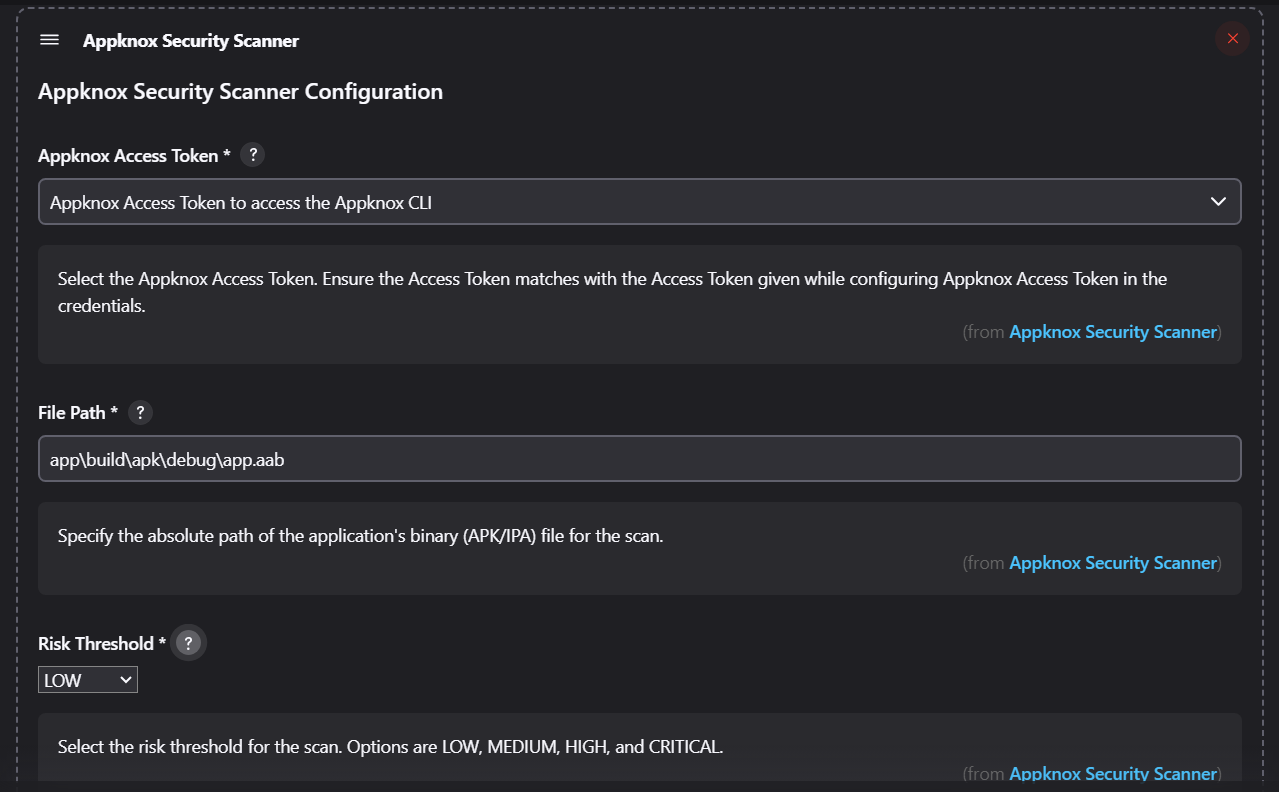
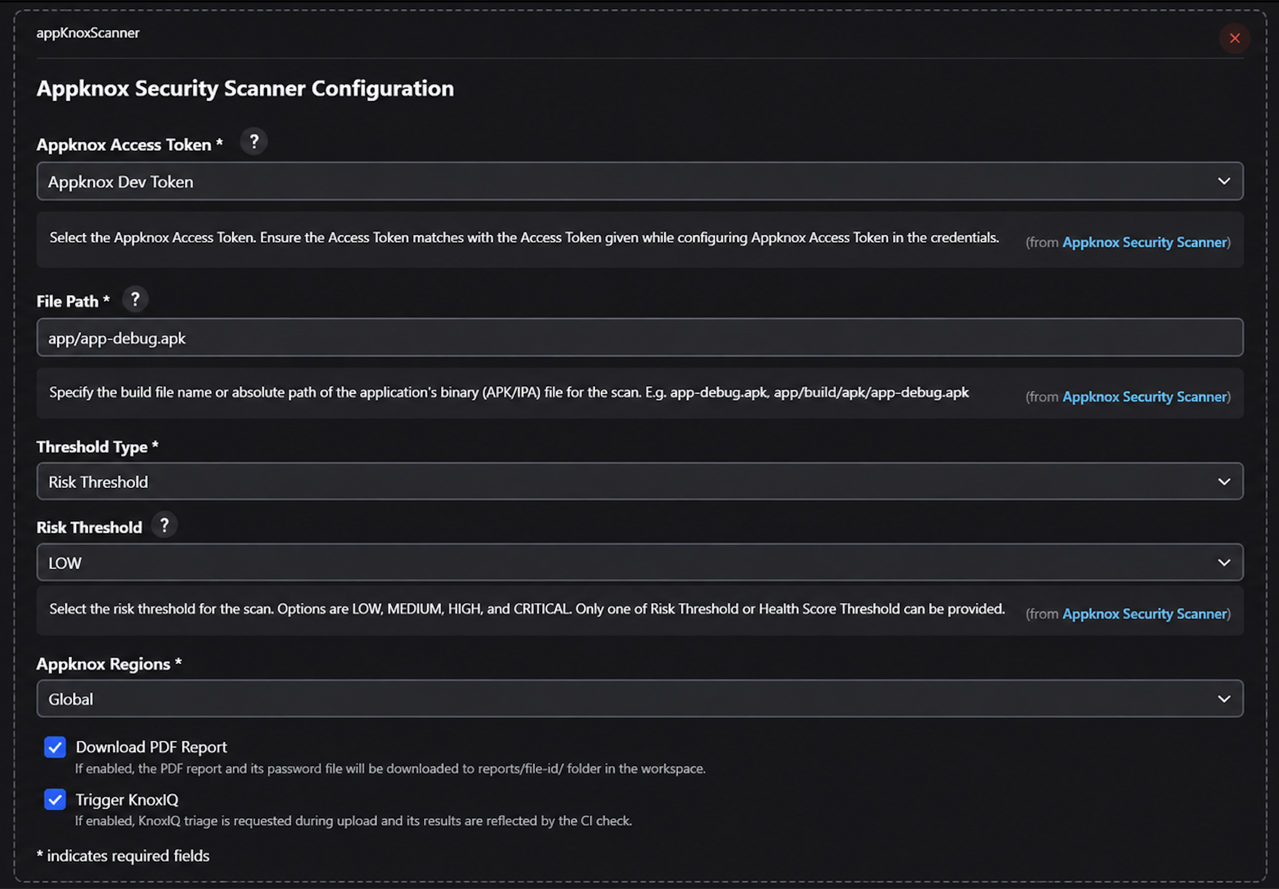
Document Health Score threshold and update plugin config screenshot
README was missing any mention of thresholdType/healthScoreThreshold
(added back in commit 4788e76, "add: threshold type") even though the
plugin has supported it for a while. Adds it to the Inputs table, the
quick pipeline snippet, and a dedicated "Example — Health Score
Threshold" pipeline alongside the existing risk-threshold example.

Also replaces the stale Appknox Plugin Configuration screenshot with a
current one showing Threshold Type, Appknox Regions, Download PDF
Report, and Trigger KnoxIQ.

diff --git a/README.md b/README.md
@@ -1,6 +1,6 @@
 # Appknox Security Scan Plugin
 
-The Appknox Security Scan Plugin allows you to perform Appknox security scan on your mobile application binary. The APK/IPA built from your CI pipeline will be uploaded to Appknox platform which performs static scan and the build will be errored according to the chosen risk threshold.
+The Appknox Security Scan Plugin allows you to perform Appknox security scan on your mobile application binary. The APK/IPA built from your CI pipeline will be uploaded to Appknox platform which performs static scan and the build will be errored according to the chosen risk threshold or minimum health score.
 
 ## How to use it?
 
@@ -81,7 +81,9 @@ stages {
                 appKnoxScanner(
                     credentialsId: 'your-appknox-access-token-ID', // Specify the Appknox Access Token ID that was set when storing the token in Jenkins credentials.
                     filePath: FILE_PATH,
-                    riskThreshold: params.RISK_THRESHOLD,
+                    thresholdType: 'RISK', // 'RISK' or 'HEALTH_SCORE' -- pick exactly one, with the matching threshold field below
+                    riskThreshold: params.RISK_THRESHOLD, // required when thresholdType is 'RISK'
+                    // healthScoreThreshold: params.HEALTH_SCORE_THRESHOLD, // required when thresholdType is 'HEALTH_SCORE' instead
                     region: params.REGION,
                     generatePdfReport: params.GENERATE_PDF, // set to true to download a password-protected PDF report
                     triggerKnoxiq: params.TRIGGER_KNOXIQ // set to true to request KnoxIQ triage during upload
@@ -98,7 +100,9 @@ stages {
 |---------------------|------------------------------|
 | `credentialsId`     | Personal appknox access token ID |
 | `filePath`          | Specify the build file name or path for the mobile application binary to upload, E.g. app-debug.apk, app/build/apk/app-debug.apk |
-| `riskThreshold`     | Risk threshold value for which the CI should fail. <br><br>Accepted values: `CRITICAL, HIGH, MEDIUM & LOW` <br><br>Default: `LOW` |
+| `thresholdType`     | Which threshold to enforce — pick exactly one. <br><br>Accepted values: `RISK`, `HEALTH_SCORE` |
+| `riskThreshold`     | Risk threshold value for which the CI should fail. Required when `thresholdType` is `RISK`. <br><br>Accepted values: `CRITICAL, HIGH, MEDIUM & LOW` <br><br>Default: `LOW` |
+| `healthScoreThreshold` | Minimum health score (0-100) the scanned app must meet for the CI to pass. Required when `thresholdType` is `HEALTH_SCORE`. |
 | `region`            | Specify the Appknox region. <br><br>Accepted values: `global`, `uae`, `saudi` <br><br>Default: `global` |
 | `generatePdfReport` | (Optional) Download a PDF VAPT report after the scan. The report is password-protected. <br><br>Accepted values: `true`, `false` <br><br>Default: `false` |
 | `triggerKnoxiq`     | (Optional) Request KnoxIQ triage for this build during upload; results are reflected by the CI check. <br><br>Accepted values: `true`, `false` <br><br>Default: `false` |
@@ -106,6 +110,8 @@ stages {
 ---
 
 ## Example Script:
+
+### Example — Risk Threshold
 ```groovy
 pipeline {
     agent any
@@ -136,7 +142,52 @@ pipeline {
                     appKnoxScanner(
                         credentialsId: 'your-appknox-access-token-ID', // Specify the Appknox Access Token ID that was set when storing the token in Jenkins credentials.
                         filePath: FILE_PATH,
+                        thresholdType: 'RISK',
                         riskThreshold: params.RISK_THRESHOLD,
+                        region: params.REGION,
+                        generatePdfReport: params.GENERATE_PDF, // set to true to download a password-protected PDF report
+                        triggerKnoxiq: params.TRIGGER_KNOXIQ // set to true to request KnoxIQ triage during upload
+                    )
+                }
+            }
+        }
+    }
+}
+```
+
+### Example — Health Score Threshold
+```groovy
+pipeline {
+    agent any
+    parameters {
+        string(name: 'HEALTH_SCORE_THRESHOLD', defaultValue: '70', description: 'Minimum Health Score (0-100)')
+        choice(name: 'REGION', choices: ['global', 'uae', 'saudi'], description: 'Appknox Region')
+        booleanParam(name: 'GENERATE_PDF', defaultValue: false, description: 'Download PDF report')
+        booleanParam(name: 'TRIGGER_KNOXIQ', defaultValue: false, description: 'Request KnoxIQ triage during upload')
+    }
+    stages {
+        stage('Checkout') {
+            steps {
+                git 'https://github.com/yourgithub/reponame'
+            }
+        }
+        stage('Build App') {
+            steps {
+                // Build the app using your build tool. Example uses Gradle.
+                script {
+                    sh './gradlew build'
+                    FILE_PATH = "app/build/outputs/apk/debug/app-debug.apk"
+                }
+            }
+        }
+        stage('Appknox Scan') {
+            steps {
+                script {
+                    appKnoxScanner(
+                        credentialsId: 'your-appknox-access-token-ID', // Specify the Appknox Access Token ID that was set when storing the token in Jenkins credentials.
+                        filePath: FILE_PATH,
+                        thresholdType: 'HEALTH_SCORE',
+                        healthScoreThreshold: params.HEALTH_SCORE_THRESHOLD,
                         region: params.REGION,
                         generatePdfReport: params.GENERATE_PDF, // set to true to download a password-protected PDF report
                         triggerKnoxiq: params.TRIGGER_KNOXIQ // set to true to request KnoxIQ triage during upload
